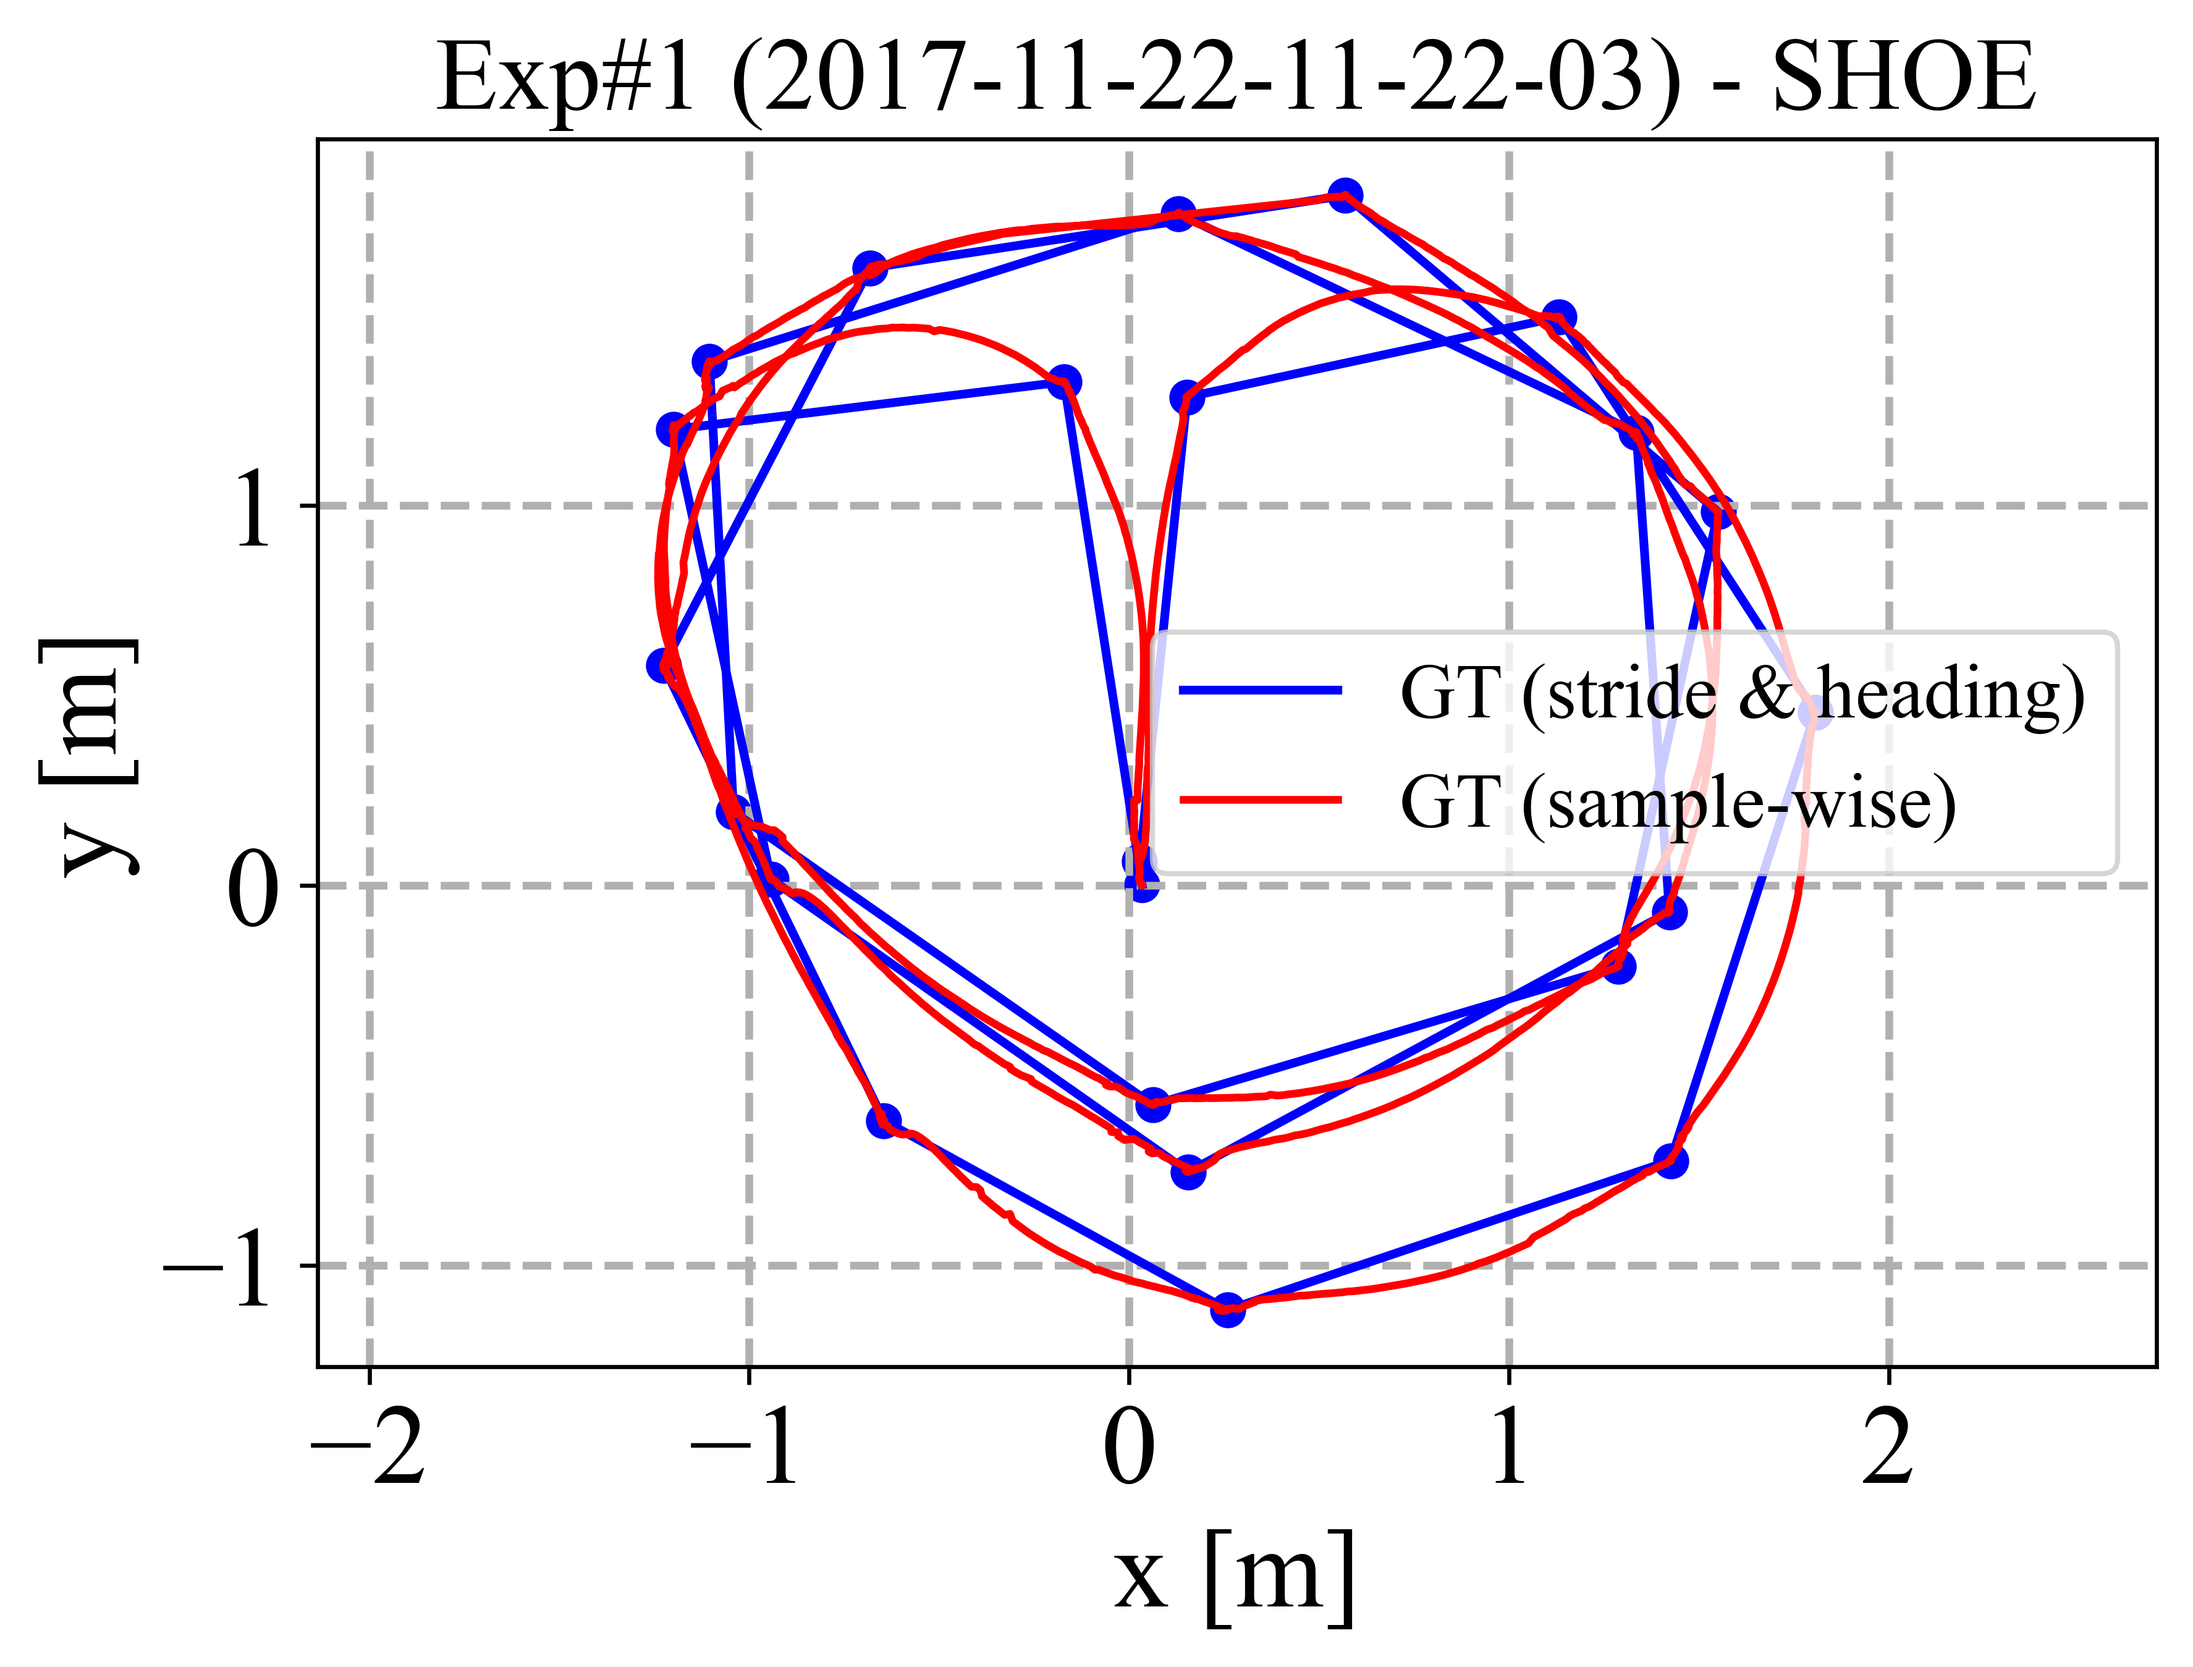
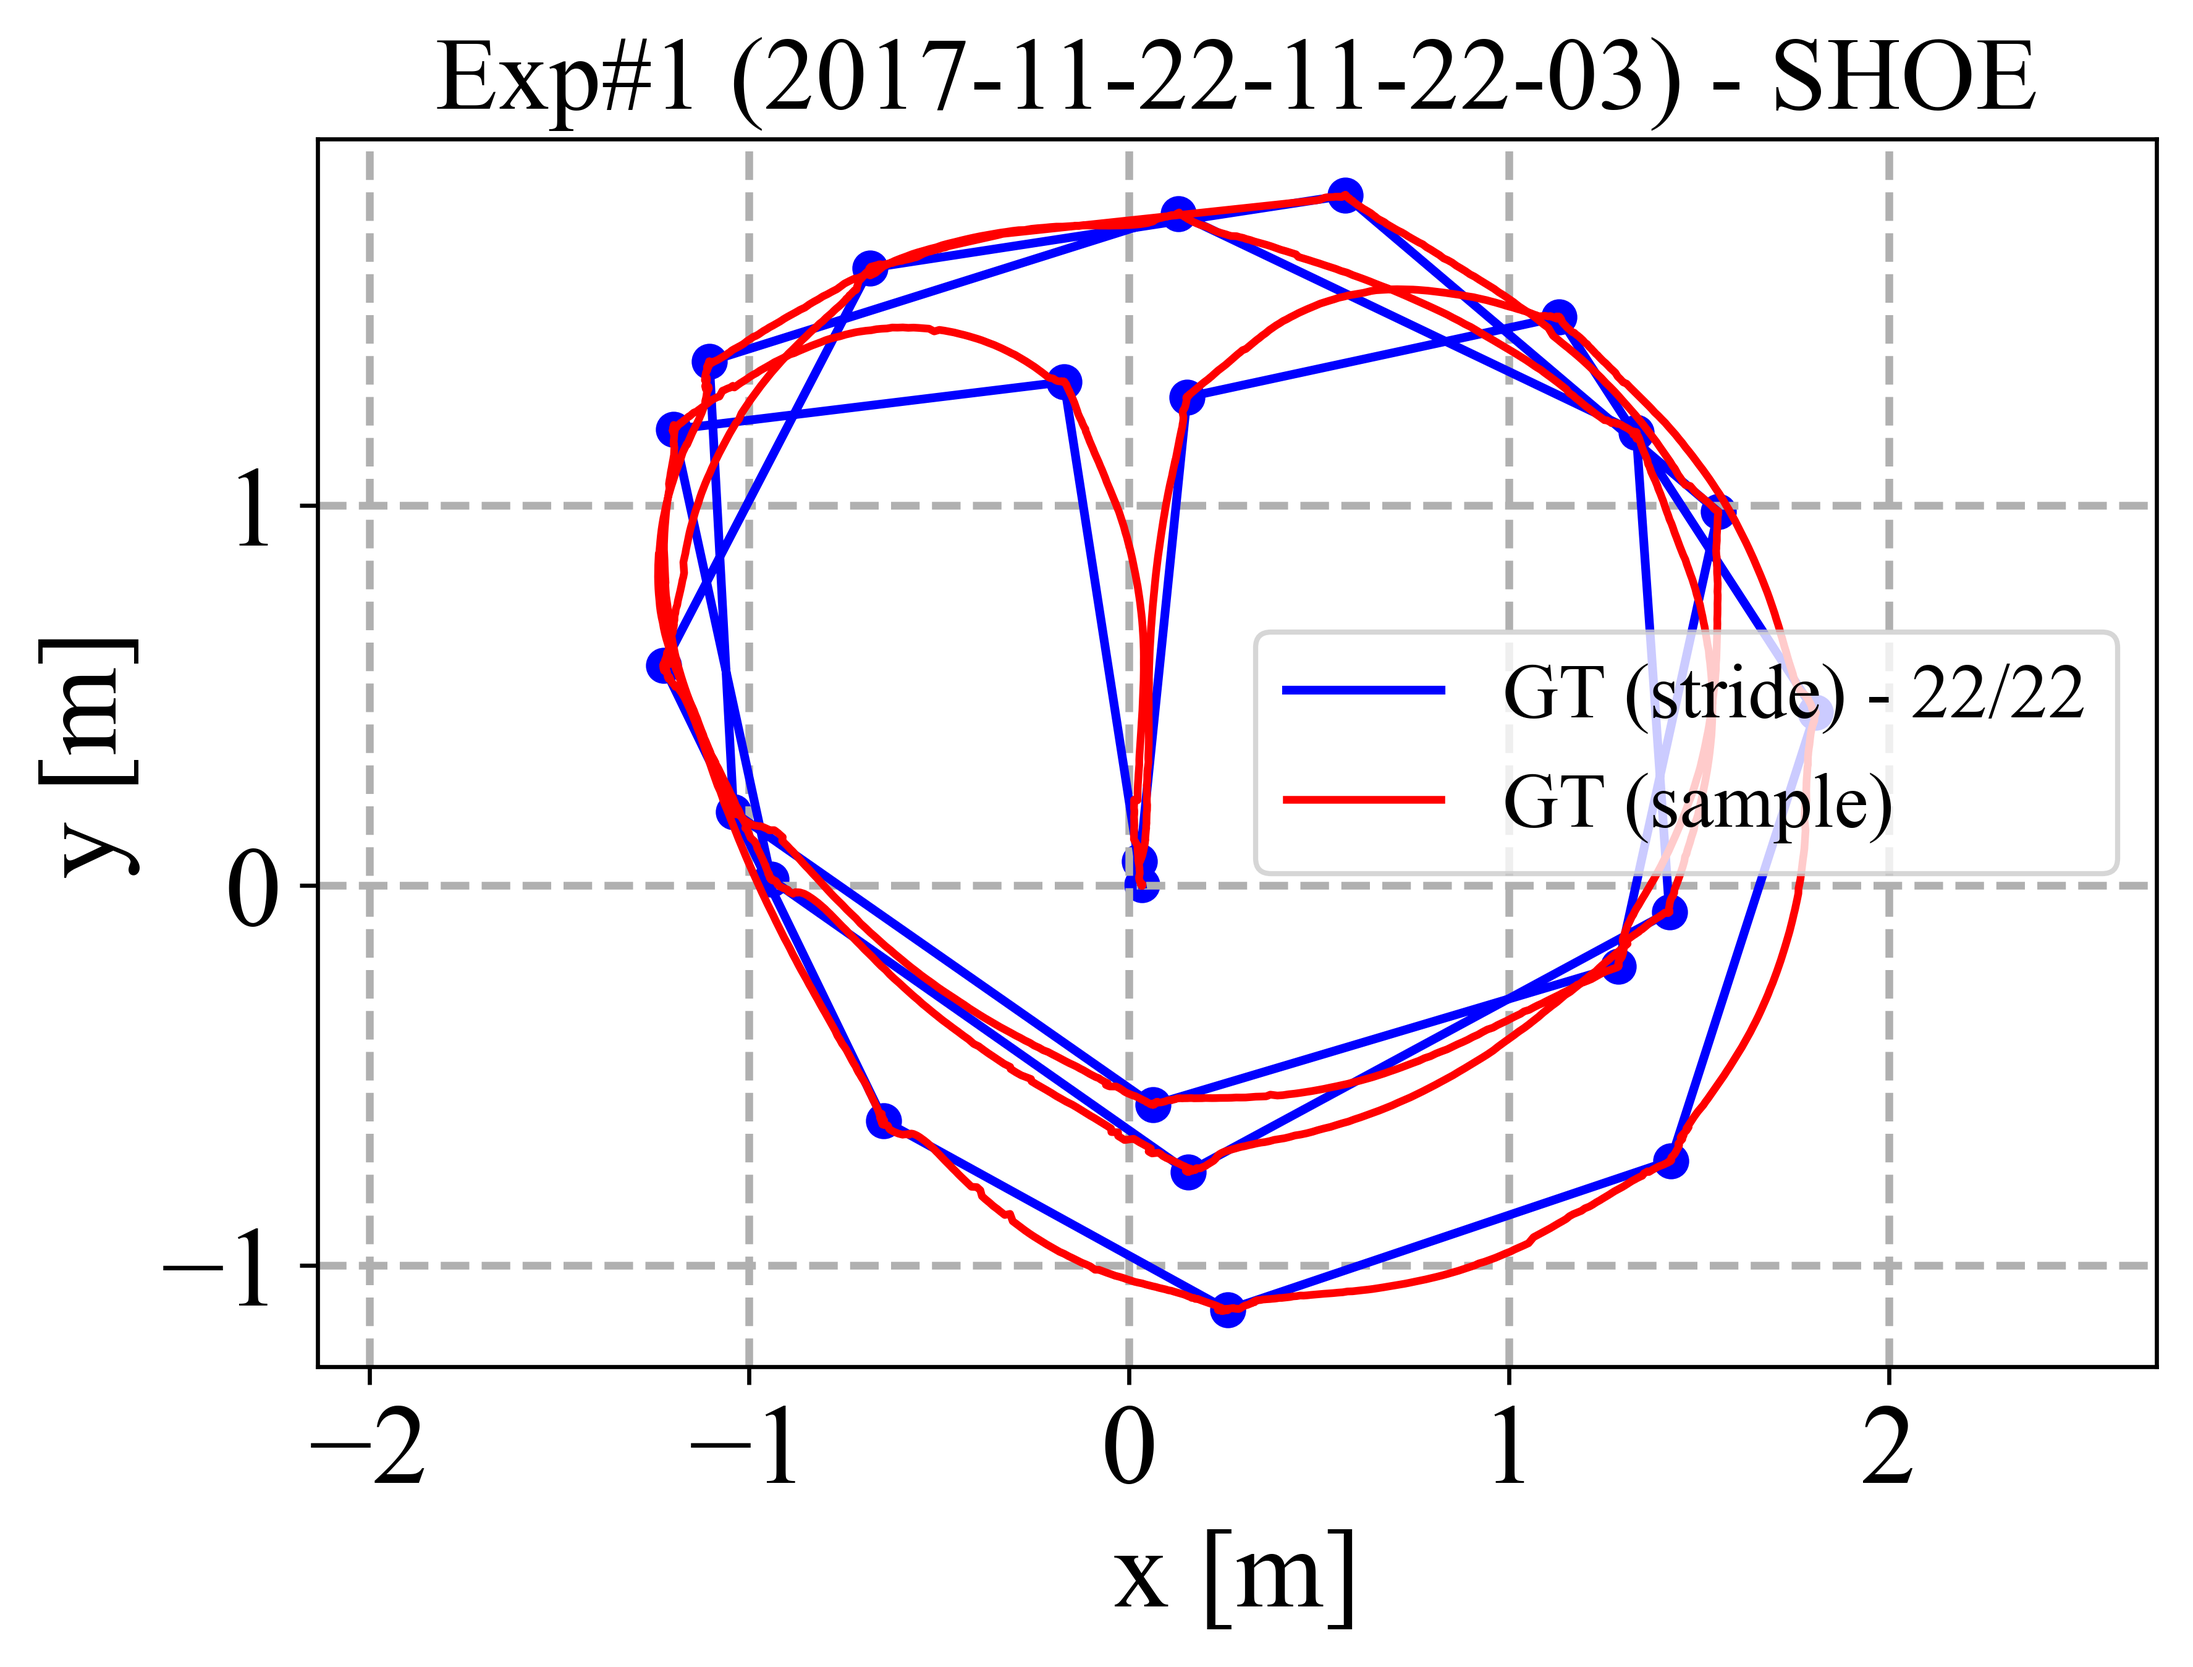
Stride indexes are also plotted for further analysis

diff --git a/plot_vicon_data.py b/plot_vicon_data.py
@@ -30,7 +30,8 @@ detector = ['shoe', 'ared', 'shoe', 'shoe', 'shoe', 'ared', 'shoe', 'shoe',
             'shoe', 'vicon', 'vicon', 'shoe', 'shoe', 'shoe', 'shoe', 'ared',
             'shoe', 'shoe', 'ared', 'shoe', 'shoe', 'shoe', 'ared', 'shoe',
             'shoe', 'ared', 'vicon', 'shoe', 'vicon', 'shoe', 'shoe', 'vicon']
-# corresponding thresholds are changed (#16 and #51)
+
+# thresholds of experiments (#16 and #51) are changed  - there are more inconsistencies in PyShoe dataset
 thresh = [2750000, 0.1, 6250000, 15000000, 5500000, 0.08, 3000000, 3250000,
           0.02, 97500000, 20000000, 0.0825, 0.1, 30000000, 0.0625, 0.1250,
           92500000, 9000000, 0.015, 0.05, 3250000, 4500000, 0.1, 100000000,
@@ -41,8 +42,7 @@ thresh = [2750000, 0.1, 6250000, 15000000, 5500000, 0.08, 3000000, 3250000,
 
 # Function to calculate displacement and heading change between stride points
 def calculate_displacement_and_heading(gt, strideIndex):
-    displacements = []
-    heading_changes = []
+    displacements, heading_changes = [], []
     for j in range(1, len(strideIndex)):
         delta_position = gt[strideIndex[j], :2] - gt[strideIndex[j - 1], :2]
         displacement = np.linalg.norm(delta_position)
@@ -133,22 +133,16 @@ def align_trajectories(traj_est, traj_gt):
 
     return traj_est_aligned, traj_gt_trimmed, scale
 
-# Function to pad lists to the same length
-def pad_lists(*lists, pad_value=np.nan):
-    max_length = max(len(lst) for lst in lists)
-    padded_lists = [np.pad(lst.astype(float), (0, max_length - len(lst)), mode='constant', constant_values=pad_value) for lst in lists]
-    return padded_lists
-
 
 i = 0  # experiment index
 count_training_exp = 0
 # following two lines are used to run selected experiment results
-# training_data_tag = [1]*55
+training_data_tag = [1]*4 # [1]*55
 # training_data_tag.append(1)
 # training_data_tag are the experiments to be used in extracting displacement and heading change data for LLIO training
-training_data_tag = [1, 1, 1, -1, 1, -1, 1, 1, 1, 1, -1, 1, 0, 1, 1, 1, 1, -1, 1, 1, 
-                    1, 1, 1, 1, 1, 1, -1, 1, 1, -1, 1, -1, 1, 1, 1, -1, 1, -1, 1, 1, 
-                    1, 1, -1, 1, 1, 1, 0, 0, -1, 0, 1, 1, 1, 1, 0, 1]
+# training_data_tag = [1, 1, 1, -1, 1, -1, 1, 1, 1, 1, -1, 1, 0, 1, 1, 1, 1, -1, 1, 1, 
+#                     1, 1, 1, 1, 1, 1, -1, 1, 1, -1, 1, -1, 1, 1, 1, -1, 1, -1, 1, 1, 
+#                     1, 1, -1, 1, 1, 1, 0, 0, -1, 0, 1, 1, 1, 1, 0, 1]
 corrected_data_index = [4, 6, 11, 18, 27, 30, 32, 36, 38, 43, 49] # corrected experiment indexes
 nGT = [22, 21, 21, 18, 26, 24, 18, 20, 28, 35, 29, 22, 30, 34, 24, 36, 20, 15, 10, 33, 
        22, 19, 13, 16, 17, 21, 20, 28, 18, 12, 13, 26, 34, 25, 24, 24, 43, 42, 15, 12, 
@@ -190,7 +184,7 @@ for file in vicon_data_files:
         aligned_x_lstm, aligned_gt, scale_lstm = align_trajectories(x_lstm, gt)
 
         # Apply filter to zero velocity detection results for stride detection corrections
-        logging.info(f'Applying heuristic filter to optimal ZUPT detector {detector[i].upper()} for correct stride detection.')
+        logging.info(f'Applying heuristic filter to optimal ZUPT detector {detector[i].upper()} generated ZV values for correct stride detection.')
         k = 75 # temporal window size for checking if detected strides are too close or not
         if i+1 == 54: # remove false positive by changing filter size for experiment 54
             k = 95
@@ -221,7 +215,7 @@ for file in vicon_data_files:
         # Plotting the reconstructed trajectory and the ground truth without stride indices
         plt.figure()
         visualize.plot_topdown([reconstructed_traj, gt[:, :2]], title=f"Exp#{i+1} ({base_filename}) - {detector[i].upper()}", 
-                               legend=['GT (stride & heading)', 'GT (sample-wise)'])
+                               legend=[f'GT (stride) - {n}/{nGT[i]}', 'GT (sample)'])
         # to visualize selected stides from the experiment of interest, change the parameters below
         # if i+1==49:
         #     # plt.plot(gt[-5:,0], gt[-5:,1], c='r')
@@ -239,8 +233,7 @@ for file in vicon_data_files:
 
         # Plot LSTM trajectory results
         plt.figure()
-        visualize.plot_topdown([aligned_x_lstm, aligned_gt[:, :2]], title=f"Exp#{i+1} ({base_filename}) - LSTM", 
-                               legend=['LSTM INS', 'GT'])
+        visualize.plot_topdown([aligned_x_lstm, aligned_gt[:, :2]], title=f"Exp#{i+1} ({base_filename}) - PyShoe (LSTM)", legend=['PyShoe (LSTM)', 'GT'])
         plt.scatter(aligned_x_lstm[strideIndexLSTMfiltered, 0], aligned_x_lstm[strideIndexLSTMfiltered, 1], c='b', marker='o')
         plt.savefig(os.path.join(output_dir, f'trajectory_exp_{i+1}_lstm_ins.png'), dpi=600, bbox_inches='tight')
 
@@ -350,7 +343,7 @@ for file in vicon_data_files:
             zv_filtered, n, strideIndex = heuristic_zv_filter_and_stride_detector(zv_filtered, 1)
             logging.info(f"Detected {n}/{nGT[i]} strides detected with the combined ZV detector in the experiment {i+1}.")
 
-            # Calculate displacement and heading changes between stride points ground truth data
+            # Calculate displacement and heading changes between ground truth values of stride points
             displacements, heading_changes = calculate_displacement_and_heading(gt[:, :2], strideIndex)
 
             # Reconstruct the trajectory from displacements and heading changes
@@ -360,7 +353,7 @@ for file in vicon_data_files:
             # Plotting the reconstructed trajectory and the ground truth without stride indices
             plt.figure()
             visualize.plot_topdown([reconstructed_traj, gt[:, :2]], title=f"Exp#{i+1} ({base_filename}) - Combined",
-                                legend=['Stride & Heading', 'GT (sample-wise)']) 
+                                legend=[f'GT (stride-wise) - {n}/{nGT[i]}', 'GT (sample-wise)']) 
             plt.scatter(reconstructed_traj[:, 0], reconstructed_traj[:, 1], c='b', marker='o')
             plt.savefig(os.path.join(output_dir, f'trajectory_exp_{i+1}_corrected.png'), dpi=600, bbox_inches='tight')
 
@@ -370,12 +363,23 @@ for file in vicon_data_files:
             plt.plot(timestamps, zv_filtered, label='Filtered')
             plt.scatter(timestamps[strideIndex], zv_filtered[strideIndex], c='r', marker='x')
             plt.title(f'Exp#{i+1} ({base_filename}) {n}/{nGT[i]} strides detected (combined)')
-            plt.xlabel('Time [s]')
-            plt.ylabel('Zero Velocity')
+            plt.xlabel('Time [s]'); plt.ylabel('Zero Velocity')
             plt.grid(True, which='both', linestyle='--', linewidth=1.5)
-            plt.legend()
-            plt.yticks([0,1])
+            plt.legend(); plt.yticks([0,1])
             plt.savefig(os.path.join(output_dir, f'zv_labels_exp_{i+1}_corrected.png'), dpi=600, bbox_inches='tight')
+
+        # Plot stride indexes on IMU data, i.e., the magnitudes of acceleration and angular velocity
+        plt.figure()
+        plt.plot(timestamps, np.linalg.norm(imu_data[:, :3], axis=1), label=r'$\Vert\mathbf{a}\Vert$')
+        plt.plot(timestamps, np.linalg.norm(imu_data[:, 3:], axis=1), label=r'$\Vert\mathbf{\omega}\Vert$')
+        plt.scatter(timestamps[strideIndex], np.linalg.norm(imu_data[strideIndex, :3], axis=1), 
+                    c='r', marker='x', label='Stride', zorder=3)
+        plt.scatter(timestamps[strideIndex], np.linalg.norm(imu_data[strideIndex, 3:], axis=1), 
+                    c='r', marker='x', zorder=3)
+        plt.title(f'Exp#{i+1} ({base_filename}) - Stride Detection on IMU Data')
+        plt.xlabel('Time [s]'); plt.ylabel(r'Magnitude'); plt.legend()
+        plt.grid(True, which='both', linestyle='--', linewidth=1.5)
+        plt.savefig(os.path.join(output_dir, f'stride_detection_exp_{i+1}.png'), dpi=800, bbox_inches='tight')
         
         #################### SAVE TRAINING DATA RIGHT AT THIS SPOT for LSTM RETRAINING #################
         if extract_bilstm_training_data:
@@ -395,8 +399,8 @@ for file in vicon_data_files:
             print(f"strideIndex.shape = {strideIndex.shape}")
             print(f"GCP.shape = {GCP.shape}")
             print(f"imu_data shape: {imu_data.shape}")
-            accX = imu_data[:,0]; accY = imu_data[:,1]; accZ = imu_data[:,2]
-            omegaX = imu_data[:,3]; omegaY = imu_data[:,4]; omegaZ = imu_data[:,5]
+            # accX = imu_data[:,0]; accY = imu_data[:,1]; accZ = imu_data[:,2]
+            # omegaX = imu_data[:,3]; omegaY = imu_data[:,4]; omegaZ = imu_data[:,5]
 
             # Save the combined data to a CSV file
             combined_data = np.column_stack((strideIndex, timestamps[strideIndex], GCP[:,0], GCP[:,1]))

diff --git a/README.md b/README.md
@@ -68,11 +68,13 @@ pip install pandas==1.1.5
 
 <p align="justify">Integration of filtered optimal ZUPT detector SHOE with the supplementary ZUPT detector (i.e., filtered VICON) enabled successfull detection of the missed stride as shown in the combined ZUPT detector plot above (located at the bottom). The corrected stride & heading system trajectory and ZV labels can be seen below for the experiment 4. Note that the correction is only going to be used in extracting displacement and heading change values for further research on Deep Learning based modern INS development; therefore, corrected ZV labels are not used in any INS generation.</p>
 
-<img src="results/figs/vicon/exp4_corrected.jpg" alt="corrected results for experiment 4 (2017-11-22-11-25-20) VICON dataset" width=%100 height=auto>
+<img src="results/figs/vicon/exp4_corrected.jpg" alt="corrected results for experiment 4 of VICON dataset" width=%100 height=auto>
 
 <p align="justify">The gif file inserted below shows the correction explicitly.</p>
 
 <img src="results/figs/vicon/gif/exp4.gif" alt="experiment 4 results after ZV correction" width=%100 height=auto>
+
+<img src="results/figs/vicon/stride_detection_exp_4.png" alt="stride deetction results on imu data for experiment 4 of VICON dataset">
 
 <h4>Experiment 6 (2017-11-22-11-26-46) - VICON training dataset</h4>
 

diff --git a/data/LLIO_training_data/README.md b/data/LLIO_training_data/README.md
@@ -1,2 +1,2 @@
 <h2>PyShoe Dataset Annotation & Expansion/Enlargement for Loose Learned Inertial Odometry (LLIO)</h2>
-<p align="justify">All saved data can be found in the <a href="https://github.com/mtahakoroglu/LLIO">main repo</a> of the paper. If extract_LLIO_training_data = True in <b>plot_vicon_data.py</b> and <b>plot_own_sensor_data.py</b>, then training data will be saved in here as mat files. Additionally, stride indexes and the associated timestamps, and GCP stride coordinates are saved to csv files separately.</p>
+<p align="justify">All saved data can be found in the <a href="https://github.com/mtahakoroglu/gradient-boosting-based-LLIO">main repo</a> of the paper. If extract_LLIO_training_data = True in <b>plot_vicon_data.py</b> and <b>plot_own_sensor_data.py</b>, then training data will be saved in here as mat files. Additionally, stride indexes and the associated timestamps, and GCP stride coordinates are saved to csv files separately.</p>
